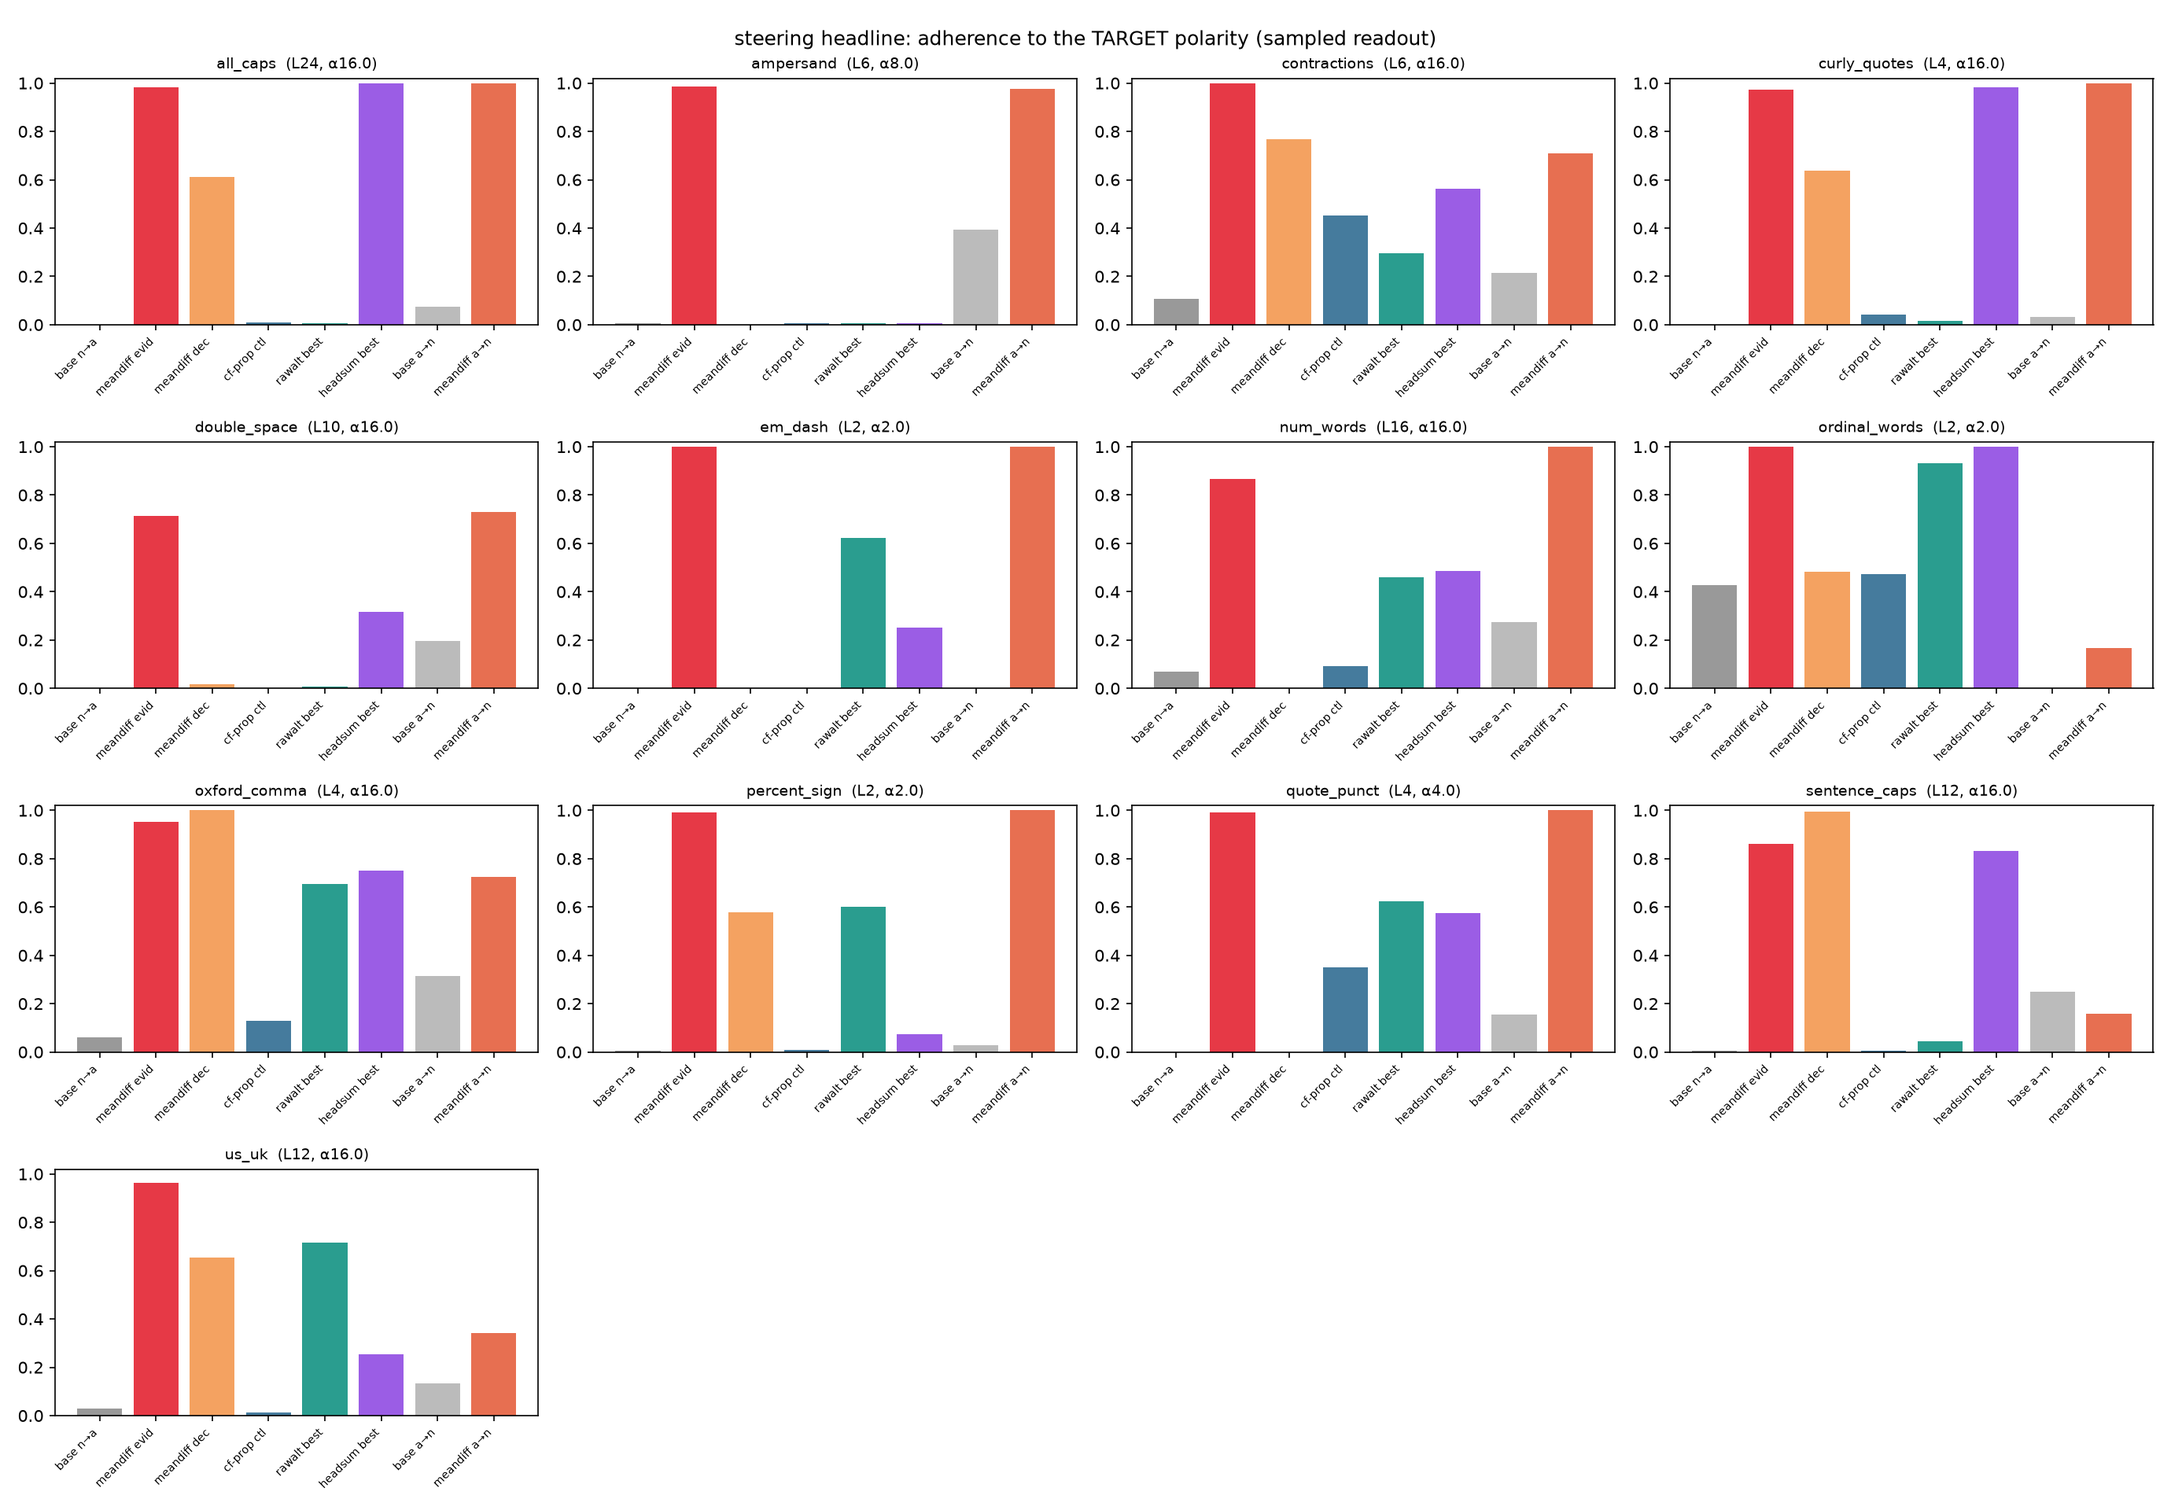
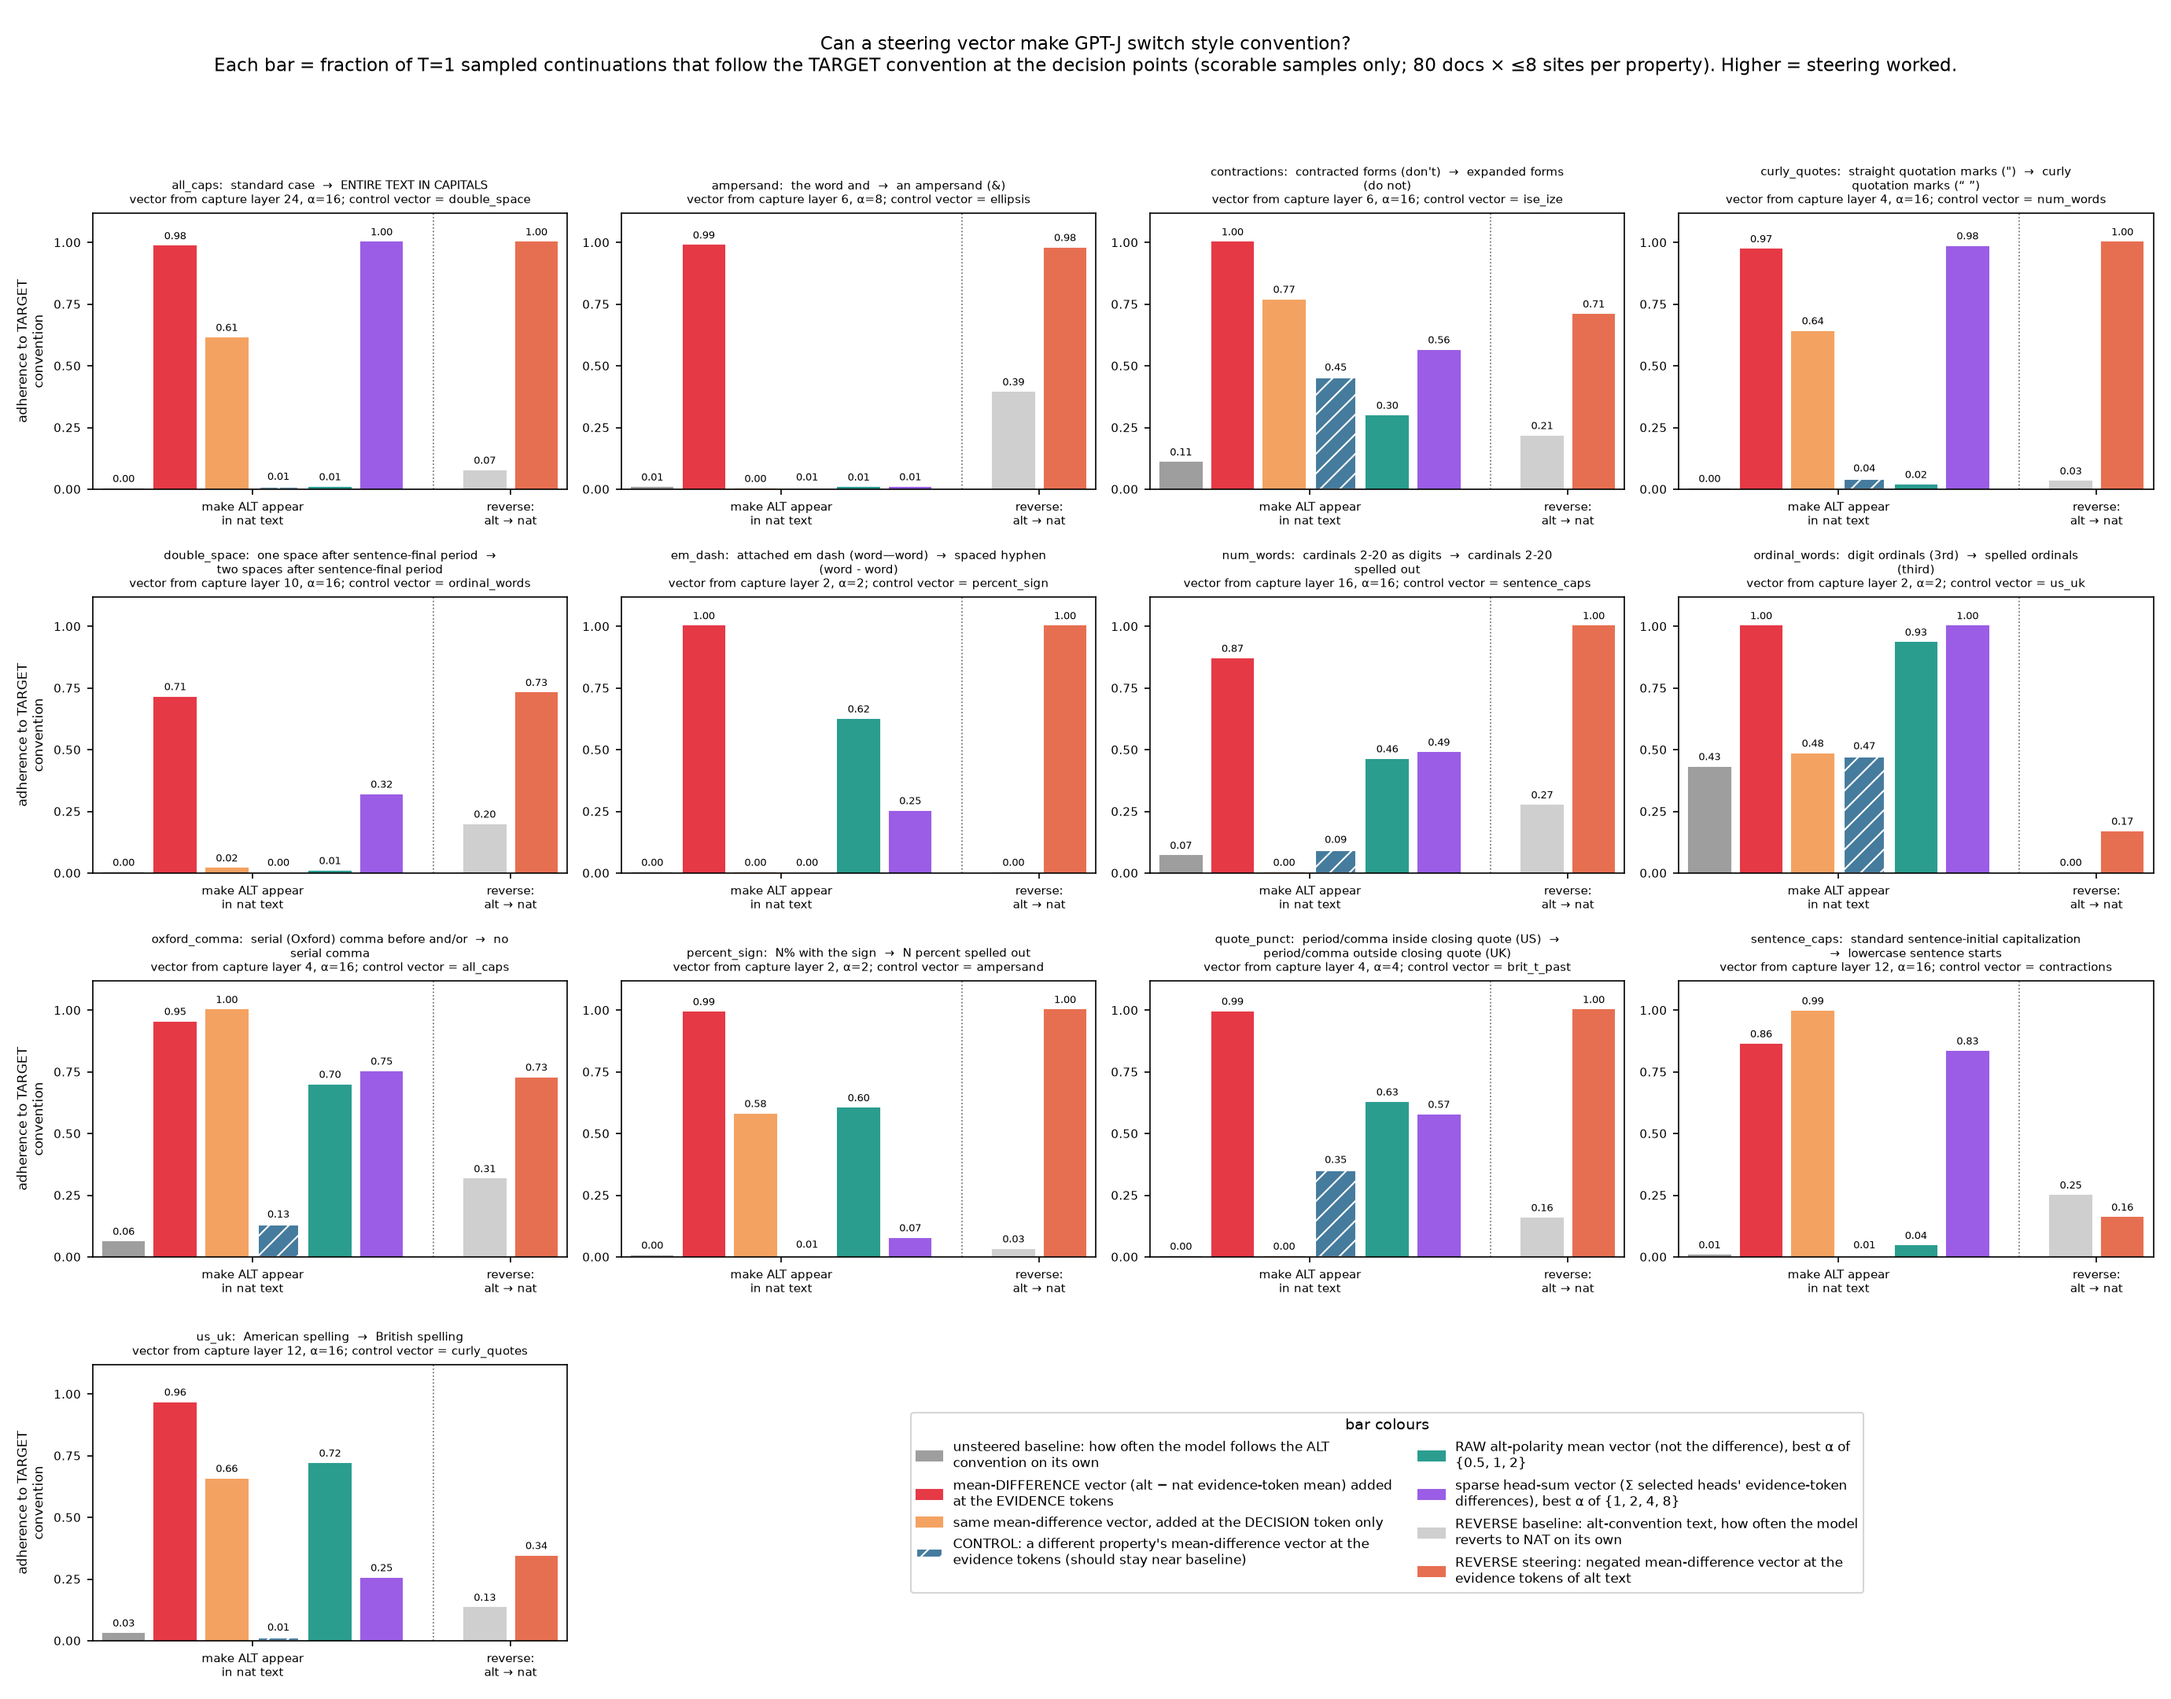
steering figures: plain-language legend, y-axis label, wrapped nat→alt titles, direction groups, value labels; sweep heatmap explained

diff --git a/src/sandbox/ext_styleprops/plot_steering.py b/src/sandbox/ext_styleprops/plot_steering.py
@@ -26,6 +26,7 @@ for p in (_BOOT, _BOOT / "src"):
     if str(p) not in sys.path:
         sys.path.insert(0, str(p))
 from src.utils.paths import ARTIFACTS_ROOT, REPO_ROOT, STYLE_PROPERTIES_DIR
+from src.sandbox.ext_styleprops.properties import PROPS
 
 STEER = ARTIFACTS_ROOT / "style_properties" / "steering"
 HEADS = ARTIFACTS_ROOT / "style_properties" / "sparse_heads"
@@ -81,19 +82,35 @@ def main():
         fig.colorbar(im, ax=ax, fraction=0.04)
     for k in range(n, nrow * ncol):
         axes[k // ncol][k % ncol].axis("off")
-    fig.suptitle("mean-diff steering at evidence spans: adherence-to-alt (nat context)")
+    fig.suptitle("Layer × dose sweep of the mean-difference steering vector (added at evidence tokens of standard-convention text)\n"
+                 "colour = fraction of T=1 samples following the ALT convention at decision points (panel title: unsteered baseline); "
+                 "capture layer 0 = embedding, l = output of block l−1", fontsize=10)
     fig.tight_layout()
     fig.savefig(OUT / "sweep_heatmaps.png", dpi=150)
 
     # headline bars + summary csv
+    # (condition key, legend text, color, hatch, x-slot). Two groups: make the ALT
+    # convention appear in standard (nat) text; then the reverse direction.
     conds_show = [
-        ("baseline_nat2alt", "base n→a"), ("meandiff_evid_nat2alt", "meandiff evid"),
-        ("meandiff_dec_nat2alt", "meandiff dec"), ("cfprop_evid_nat2alt", "cf-prop ctl"),
-        ("rawalt_best", "rawalt best"), ("headsum_best", "headsum best"),
-        ("baseline_alt2nat", "base a→n"), ("meandiff_evid_alt2nat", "meandiff a→n"),
+        ("baseline_nat2alt", "unsteered baseline: how often the model follows the ALT convention on its own",
+         "#9e9e9e", None, 0),
+        ("meandiff_evid_nat2alt", "mean-DIFFERENCE vector (alt − nat evidence-token mean) added at the EVIDENCE tokens",
+         "#e63946", None, 1),
+        ("meandiff_dec_nat2alt", "same mean-difference vector, added at the DECISION token only",
+         "#f4a261", None, 2),
+        ("cfprop_evid_nat2alt", "CONTROL: a different property's mean-difference vector at the evidence tokens (should stay near baseline)",
+         "#457b9d", "//", 3),
+        ("rawalt_best", "RAW alt-polarity mean vector (not the difference), best α of {0.5, 1, 2}",
+         "#2a9d8f", None, 4),
+        ("headsum_best", "sparse head-sum vector (Σ selected heads' evidence-token differences), best α of {1, 2, 4, 8}",
+         "#9b5de5", None, 5),
+        ("baseline_alt2nat", "REVERSE baseline: alt-convention text, how often the model reverts to NAT on its own",
+         "#cfcfcf", None, 7),
+        ("meandiff_evid_alt2nat", "REVERSE steering: negated mean-difference vector at the evidence tokens of alt text",
+         "#e76f51", None, 8),
     ]
     rows = []
-    fig, axes = plt.subplots(nrow, ncol, figsize=(4.6 * ncol, 3.2 * nrow), squeeze=False)
+    fig, axes = plt.subplots(nrow, ncol, figsize=(4.6 * ncol, 3.6 * nrow), squeeze=False)
     for pi, name in enumerate(props):
         fl = json.load(open(STEER / "full" / f"{name}.json"))
         c = fl["conditions"]
@@ -102,29 +119,58 @@ def main():
         hs_best = max((k for k in c if k.startswith("headsum")),
                       key=lambda k: c[k]["adherence_tgt"], default=None)
         get = {"rawalt_best": raw_best, "headsum_best": hs_best}
-        vals, labs = [], []
         row = {"property": name, "best_L": fl["best_from_sweep"]["L"],
                "best_alpha": fl["best_from_sweep"]["alpha"], "cf_property": fl["cf_property"]}
-        for key, lab in conds_show:
+        ax = axes[pi // ncol][pi % ncol]
+        for key, lab, color, hatch, slot in conds_show:
             k = get.get(key, key)
             v = c[k]["adherence_tgt"] if k and k in c else np.nan
-            vals.append(v)
-            labs.append(lab)
             row[key] = round(v, 3) if not np.isnan(v) else ""
             if key in ("rawalt_best", "headsum_best") and k:
                 row[key + "_cond"] = k
+            if not np.isnan(v):
+                ax.bar(slot, v, color=color, hatch=hatch, edgecolor="white" if hatch else color,
+                       width=0.8)
+                ax.text(slot, v + 0.02, f"{v:.2f}", ha="center", va="bottom", fontsize=6)
         rows.append(row)
-        ax = axes[pi // ncol][pi % ncol]
-        colors = ["#999", "#e63946", "#f4a261", "#457b9d", "#2a9d8f", "#9b5de5",
-                  "#bbb", "#e76f51"]
-        ax.bar(range(len(vals)), vals, color=colors)
-        ax.set_xticks(range(len(vals)), labs, rotation=45, ha="right", fontsize=6.5)
-        ax.set_ylim(0, 1.02)
-        ax.set_title(f"{name}  (L{row['best_L']}, α{row['best_alpha']})", fontsize=9)
+        ax.axvline(6.0, color="#666", lw=0.8, ls=":")
+        ax.set_xticks([2.5, 7.5], ["make ALT appear\nin nat text", "reverse:\nalt → nat"],
+                      fontsize=7)
+        ax.set_xlim(-0.6, 8.6)
+        ax.set_ylim(0, 1.12)
+        ax.set_yticks([0, 0.25, 0.5, 0.75, 1.0])
+        ax.tick_params(axis="y", labelsize=7)
+        if pi % ncol == 0:
+            ax.set_ylabel("adherence to TARGET\nconvention", fontsize=8)
+        prop = PROPS[name]
+        import textwrap
+        t1 = textwrap.fill(f"{name}:  {prop.nat_label}  →  {prop.alt_label}", 58)
+        ax.set_title(t1 + f"\nvector from capture layer {row['best_L']}, α={row['best_alpha']:g}; "
+                     f"control vector = {row['cf_property']}", fontsize=7)
     for k in range(n, nrow * ncol):
         axes[k // ncol][k % ncol].axis("off")
-    fig.suptitle("steering headline: adherence to the TARGET polarity (sampled readout)")
-    fig.tight_layout()
+    from matplotlib.patches import Patch
+    handles = [Patch(facecolor=col, hatch=h, edgecolor="white" if h else col, label=lab)
+               for _, lab, col, h, _ in conds_show]
+    wrapped = [textwrap.fill(hh.get_label(), 62) for hh in handles]
+    fig.suptitle("Can a steering vector make GPT-J switch style convention?\n"
+                 "Each bar = fraction of T=1 sampled continuations that follow the TARGET convention at the decision points "
+                 "(scorable samples only; 80 docs × ≤8 sites per property). Higher = steering worked.",
+                 fontsize=11)
+    fig.tight_layout(rect=(0, 0, 1, 0.95))
+    n_empty = nrow * ncol - n
+    if n_empty >= 2:
+        # legend in the empty slots of the last row
+        left = axes[nrow - 1][ncol - n_empty].get_position()
+        right = axes[nrow - 1][ncol - 1].get_position()
+        fig.legend(handles=handles, labels=wrapped, loc="center", fontsize=8, frameon=True,
+                   ncol=1 if n_empty < 3 else 2,
+                   bbox_to_anchor=((left.x0 + right.x1) / 2, (left.y0 + left.y1) / 2),
+                   bbox_transform=fig.transFigure, title="bar colours", title_fontsize=9)
+    else:
+        fig.legend(handles=handles, labels=wrapped, loc="lower center", ncol=2, fontsize=8,
+                   frameon=False)
+        fig.subplots_adjust(bottom=0.18)
     fig.savefig(OUT / "headline_bars.png", dpi=150)
     with open(OUT / "steering_summary.csv", "w", newline="") as f:
         w = csv.DictWriter(f, fieldnames=sorted({k for r in rows for k in r}))
